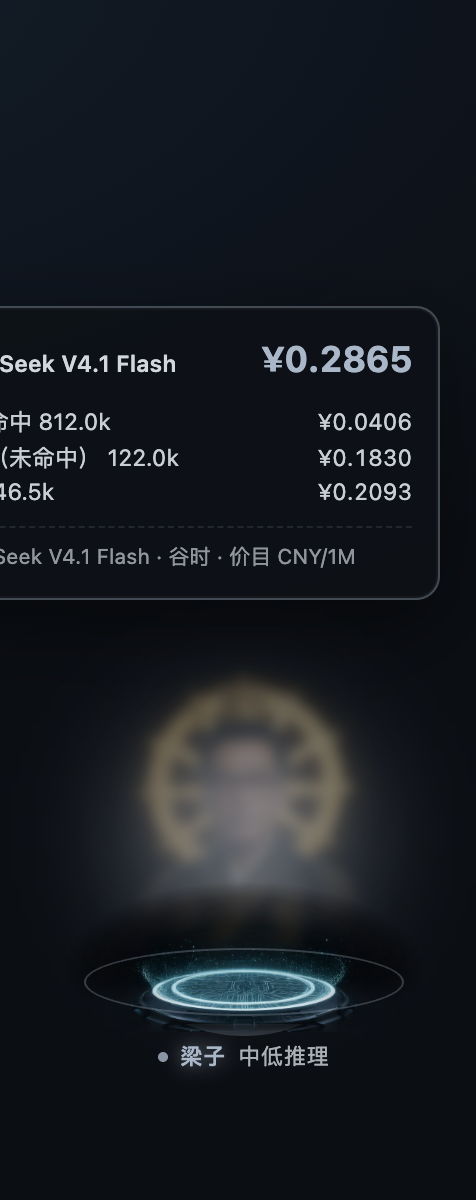
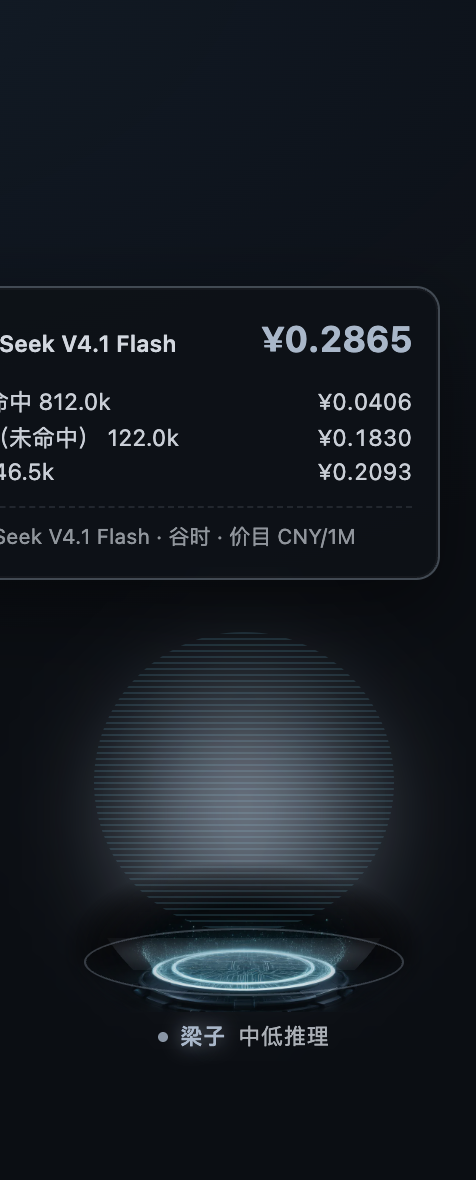
feat(assets): 梁神改用 liang-intensity-calibrator 的原始人像（MIT）
- 四档直接取上游 0-30 强度轴的锚点：level-01 / level-10 / level-22 / stage-30（经 dsh-liang-skin 转制）
- 低档人像的浅色影棚背景做冷调 + 暗角，做成圆形全息投影徽章，深色界面里不突兀
- 加 NOTICE.md 记录上游 MIT 许可与转制链路；素材 URL 加版本号绕过 immutable 缓存

diff --git a/client/client.js b/client/client.js
@@ -36,6 +36,8 @@ window.__ModuleLoader__.load({
     var BASE = '/dsh-pet-liang'
     var ROOT_ID = 'dsh-pet-liang-root'
     var POS_KEY = 'dsh-pet-liang:pos'
+    /* 素材改了名字没变，加一个版本号强制浏览器重新取（宿主给的是 immutable 缓存） */
+    var ASSET_V = '3'
     var STYLE_ID = 'dsh-pet-liang-style'
 
     /** 四档推理等级对应的称呼与氛围色。 */
@@ -228,7 +230,18 @@ window.__ModuleLoader__.load({
       '#' + ROOT_ID + ' .dpl-figure{position:relative;width:152px;margin-bottom:36px;mix-blend-mode:screen;',
       'animation:dpl-breathe 4.2s ease-in-out infinite;}',
                   '#' + ROOT_ID + '[data-working="1"] .dpl-figure{animation:dpl-breathe 1.9s ease-in-out infinite;}',
-      '#' + ROOT_ID + ' .dpl-ring{position:absolute;left:50%;bottom:10px;width:158px;height:32px;transform:translateX(-50%);',
+            /* 梁神：用 liang-intensity-calibrator 的原始人像，做成圆形投影徽章 */
+      '#' + ROOT_ID + '[data-character="liang"] .dpl-figure{width:150px;height:150px;object-fit:cover;border-radius:50%;',
+      'border:1px solid color-mix(in srgb,var(--dpl-aura) 52%,transparent);',
+      'box-shadow:0 0 26px color-mix(in srgb,var(--dpl-aura) 34%,transparent),inset 0 0 34px rgba(0,0,0,.55);',
+      '-webkit-mask-image:radial-gradient(circle at 50% 46%,#000 62%,rgba(0,0,0,.72) 78%,transparent 92%);',
+      'mask-image:radial-gradient(circle at 50% 46%,#000 62%,rgba(0,0,0,.72) 78%,transparent 92%);}',
+      '#' + ROOT_ID + '[data-character="liang"] .dpl-figure-wrap{position:relative;}',
+      '#' + ROOT_ID + '[data-character="liang"] .dpl-scanlines{opacity:1;}',
+      '#' + ROOT_ID + ' .dpl-scanlines{position:absolute;left:50%;bottom:42px;width:150px;height:150px;border-radius:50%;',
+      'transform:translateX(-50%);pointer-events:none;opacity:0;transition:opacity .3s ease;',
+      'background:repeating-linear-gradient(to bottom,rgba(120,220,255,.13) 0 1px,transparent 1px 3px);mix-blend-mode:screen;}',
+'#' + ROOT_ID + ' .dpl-ring{position:absolute;left:50%;bottom:10px;width:158px;height:32px;transform:translateX(-50%);',
       'border-radius:50%;border:1px solid var(--dpl-aura);opacity:.28;pointer-events:none;}',
       '#' + ROOT_ID + '[data-working="1"] .dpl-ring{opacity:.75;animation:dpl-spin 3.4s linear infinite;}',
       '#' + ROOT_ID + ' .dpl-scan{position:absolute;left:50%;bottom:0;width:168px;height:186px;transform:translateX(-50%);',
@@ -285,7 +298,7 @@ window.__ModuleLoader__.load({
     var costLoading = false
 
     function assetUrl(file) {
-      return BASE + '/assets/' + file
+      return BASE + '/assets/' + file + '?v=' + ASSET_V
     }
 
     function el(tag, cls, text) {
@@ -405,11 +418,13 @@ window.__ModuleLoader__.load({
       figure.draggable = false
       figure.setAttribute('data-asset', 'moss-idle.webp')
       figure.setAttribute('data-char', 'moss')
+      var scanlines = el('div', 'dpl-scanlines')
       var scan = el('div', 'dpl-scan')
       var ring = el('div', 'dpl-ring')
       stage.appendChild(aura)
       stage.appendChild(base)
       stage.appendChild(figure)
+      stage.appendChild(scanlines)
       stage.appendChild(scan)
       stage.appendChild(ring)
 

diff --git a/NOTICE.md b/NOTICE.md
@@ -1,0 +1,12 @@
+# 素材来源与许可
+
+## 梁神人像（assets/liang-1..4.webp）
+
+- 原始素材：[Lichtspektrum/liang-intensity-calibrator](https://github.com/Lichtspektrum/liang-intensity-calibrator)，MIT License，Copyright (c) 2026 Lichtspektrum。
+- 经由 [kingOfSoySauce/dsh-liang-skin](https://github.com/kingOfSoySauce/dsh-liang-skin)（`assets/portrait-source-v2/`）选取并转制，保持同一套 0–30 强度轴的人像锚点。
+- 本插件选取 4 个锚点：`level-01`（小梁）、`level-10`（梁子）、`level-22`（梁圣）、`stage-30`（梁神），缩放到 384×384 并做冷调/暗角处理以适配深色界面。
+- 与上游一致采用 MIT 许可；如需再分发，请保留本声明与上游版权信息。
+
+## MOSS 机体与全息基座（assets/moss-*.webp、holo-pedestal.webp）
+
+- 由本插件使用 qwen-image-3.0 生成，无人像、无实拍素材。
